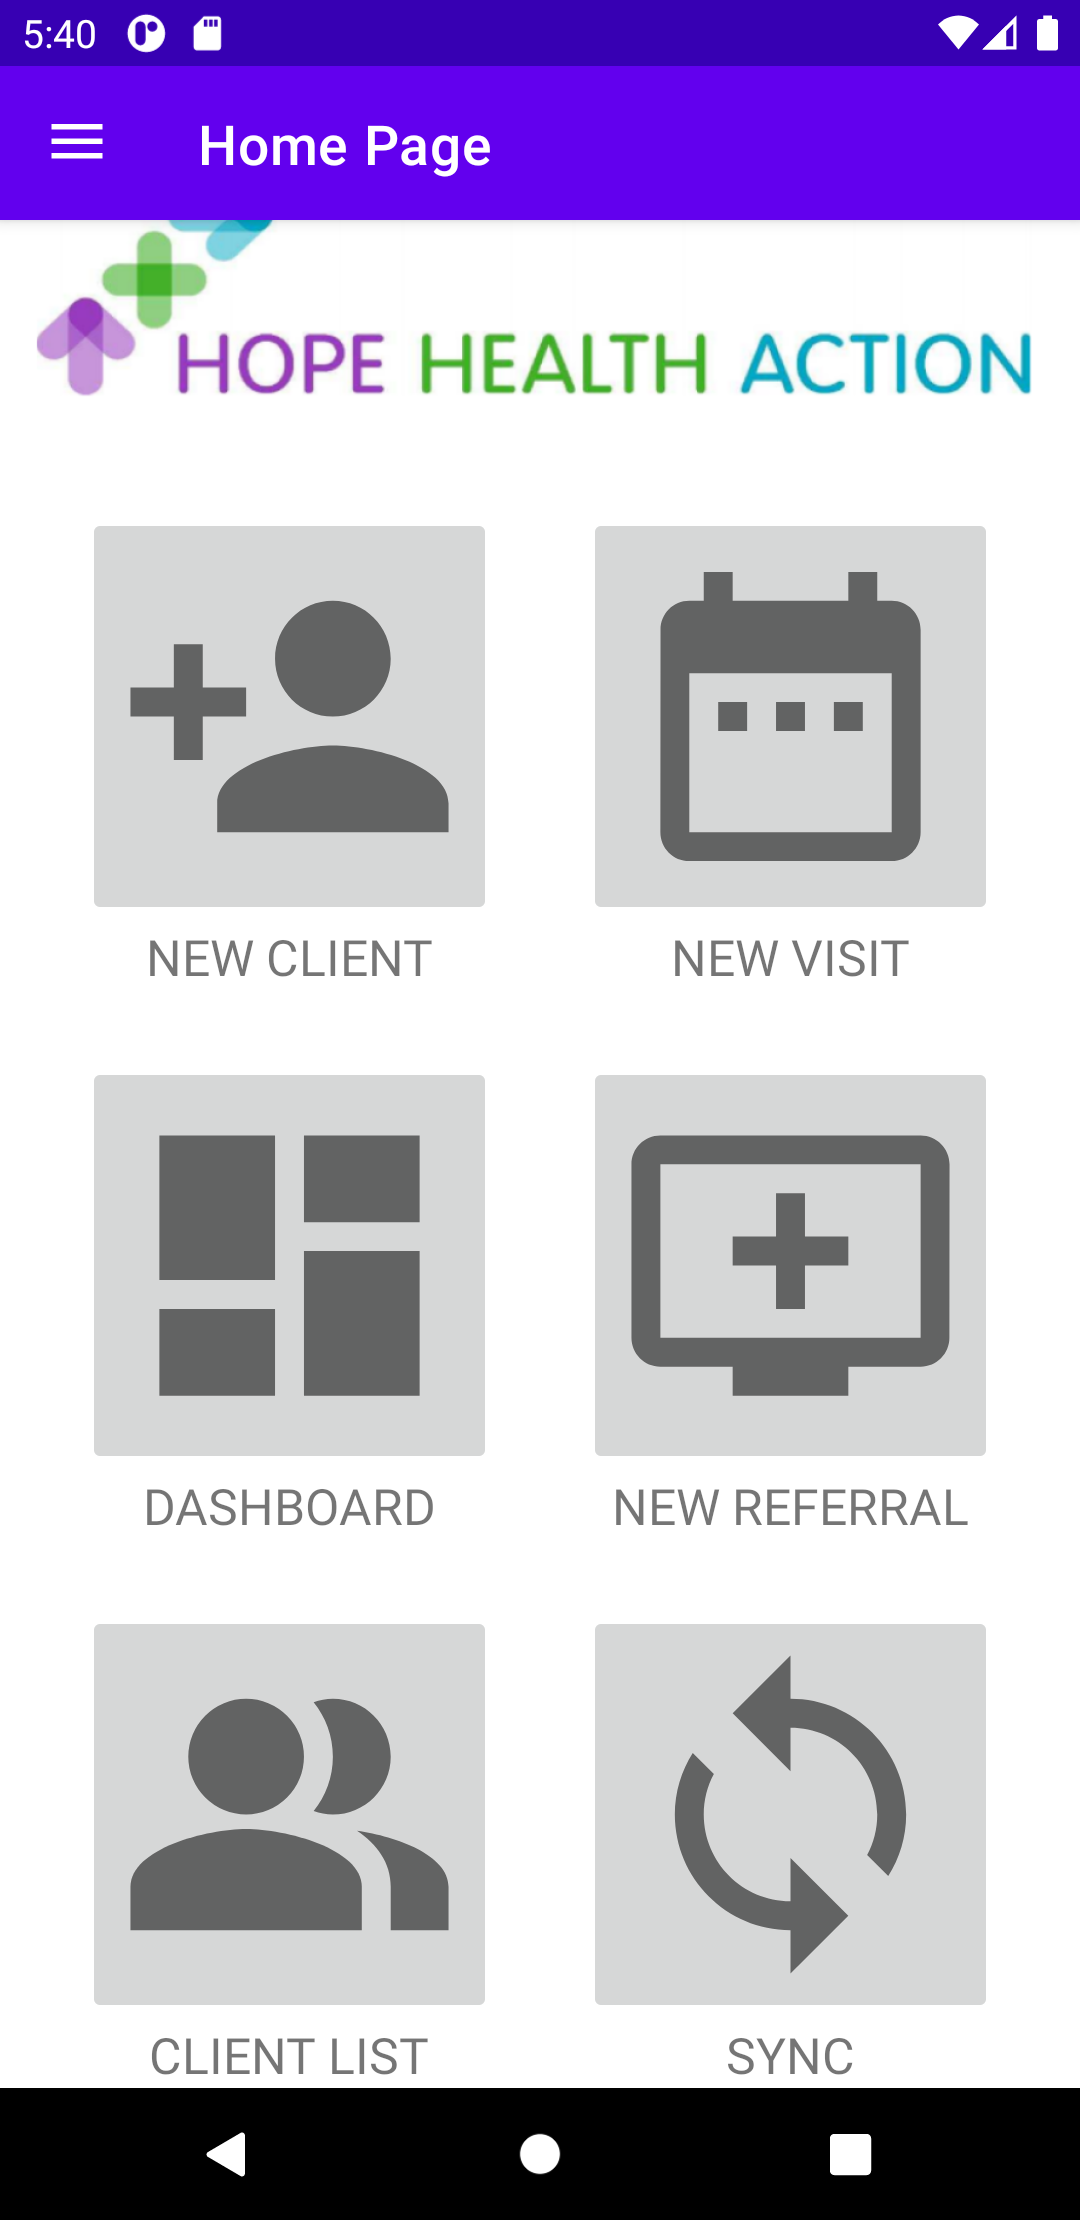
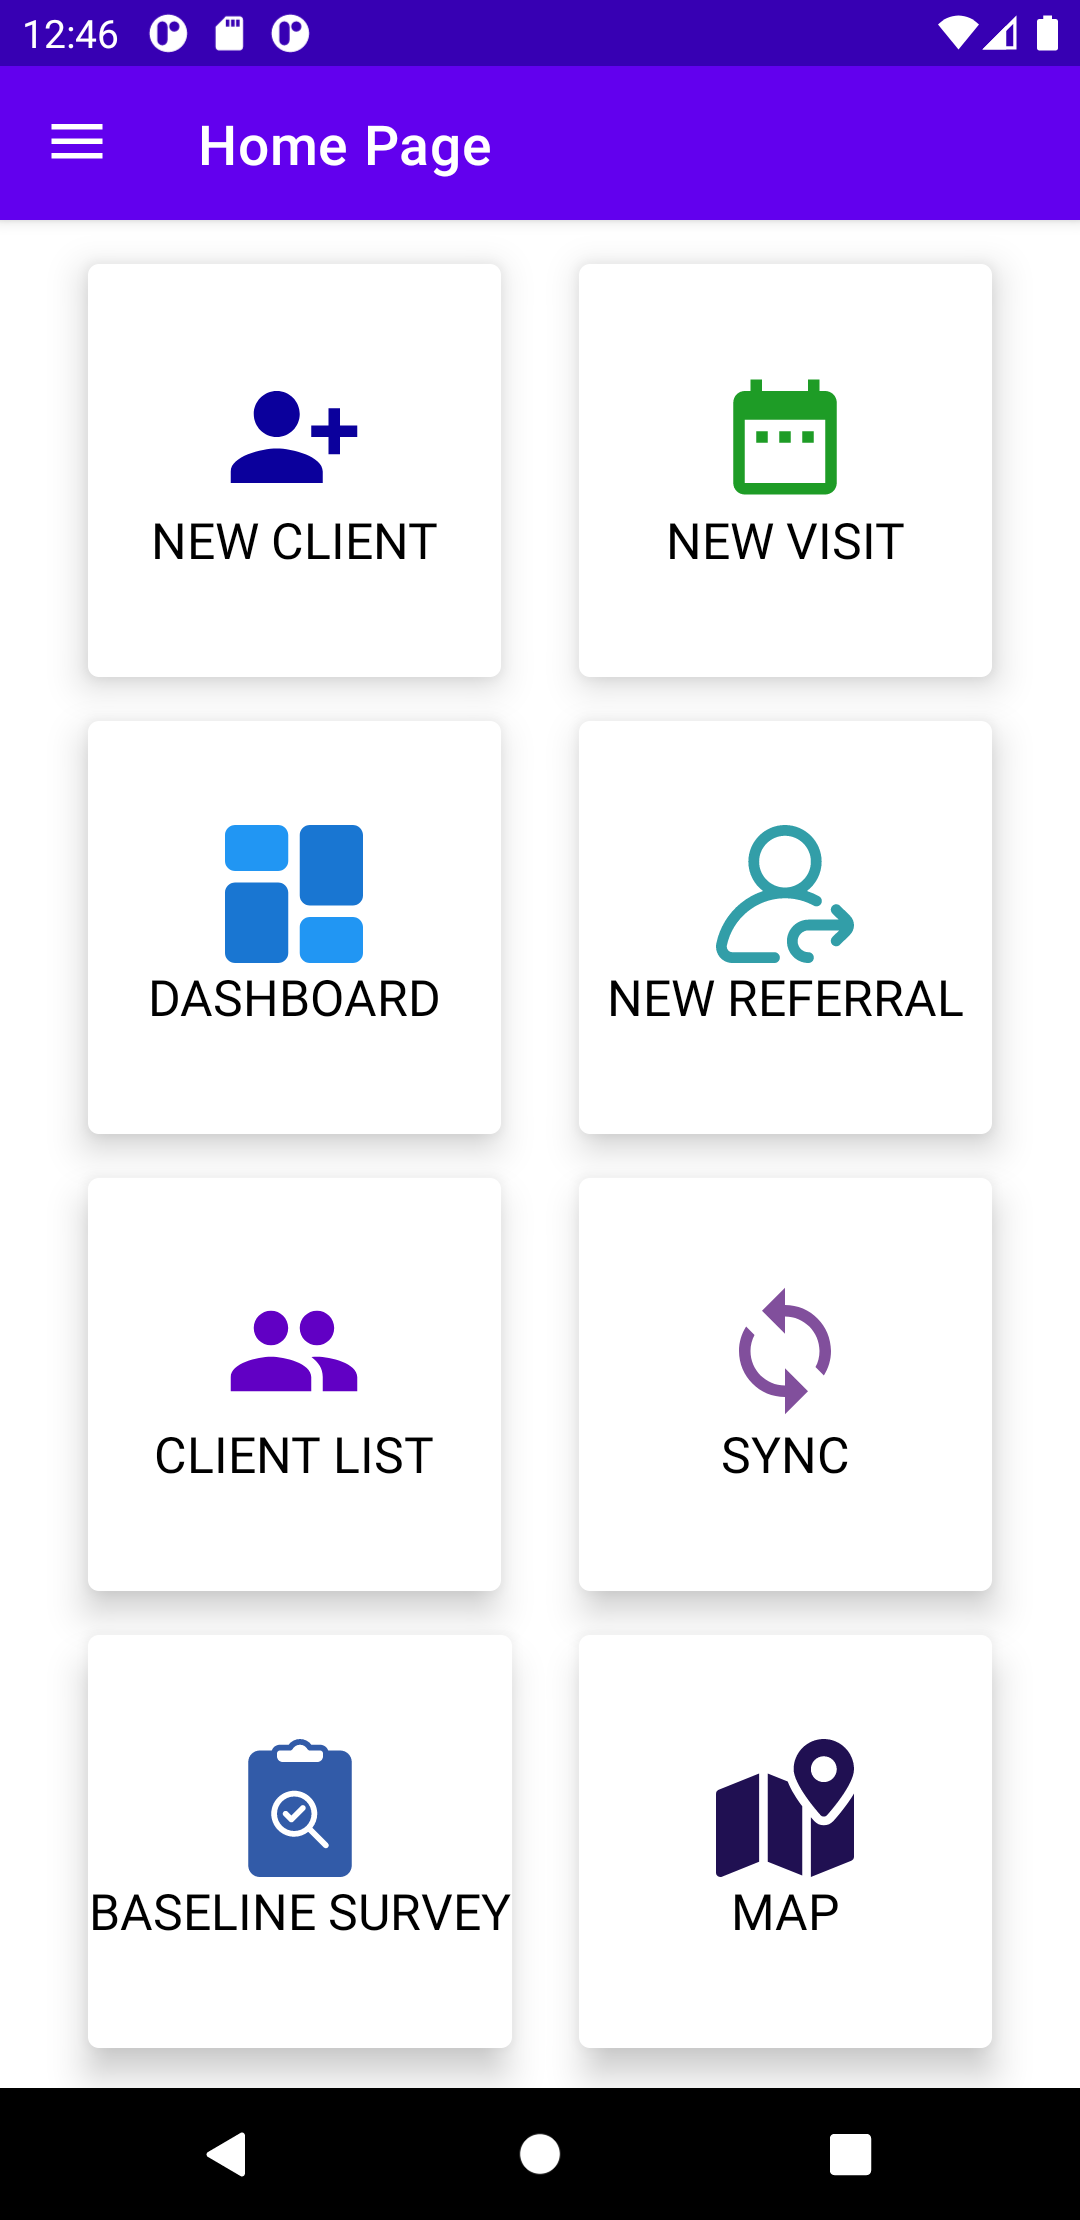
add sean part, overview, next steps, more photos and descriptions to readme

diff --git a/README.md b/README.md
@@ -15,8 +15,11 @@ In iteration 1, we've designed the UI for the majority of required pages and cre
 ### Iteration 2
 In iteration 2, we focused on adding the ability for users to create referrals for clients, which can then be viewed and edited. Speaking of editing, this was another area we focused on this iteration. Now clients and visits can also be edited through the app as well. We also placed a search feature in a lot of the pages, which will be handy once the number of clients and visits grows. Another focus this iteration was on using a local db with syncing to allow users to use the app offline. Finally, we improved a lot of the app's UI this iteration, based on feedback from the customer, and also based on having a better understanding of the flow of the app and how to use Android at this point. One of these changes was login caching, which we feel definitely makes the app more convenient to use (and to test!).
 
-## Upcoming
-For next iteration we plan to finalize the risk algorithm, finish work on local database syncing, add the ability to easily view historical changes, and improve client goal tracking. We also will finalize the UI across the board to get everything looking and feeling as good as possible. And of course we'll make changes based on the customer's feedback of our iteration 2 demo!
+### Iteration 3
+In iteration 3, we focused on goals, offline functionality, maps, statistics, admin privileges, the risk algorithm, baseline surveys, and general quality of life improvements for the user. Goals are now their own objects rather than simply being an attribute of client, so they can be created and updated in several places, and their full history can be viewed. Nearly the entire app is now functional offline. Every table except baseline surveys (which is less likely to be accessed offline) can be written to, updated, and viewed from offline using a local database, which will sync to the global database when internet becomes available again. There is now also a map showing all client locations, and a statistics page that can export CSV files to Google Drive (if the user is an admin). The risk algorithm is now fully operational, with complex-ish calculations under the hood, but displaying the results in easily digestible English categories. Users can also now fill out baseline surveys for clients. Finally, the UI across the board has been cleaned up, instructions are added for the first time a user uses the app, and some code refactoring has been done to clean up the code.
+
+## To do in the future
+Baseline surveys definitely should get offline functionality. Baseline surveys should also be represented in the statistics. There are also a few counterintuitive quirks in the UI that should be changed, such as when creating a goal in visit for a category that doesn't yet have a goal, where it will ask the status of the nonexistent goal. It's a process, so I'm sure there will also be other things to change based on the customer's feedback. Overall though, we're very happy with what we've accomplished on this app this term. We're proud of the "final" product, and we've all learned a lot.
 
 
 # How to setup Local Development
@@ -460,6 +463,24 @@ The login page allows users to log in to reach their personalized home screen
 **User Story** (#1)
 As an admin, I want to be able to edit all user (CBR worker, clinician) data, so I can perform management duties if input was incorrect or priorities changed
 
+**Iteration 3:**
+
+**User story:**
+   As a admin/user, I want to be able to create and modify goals so that clients can track their progress better.
+
+* I created the goal model on the back end, which was used in the app in multiple places.
+
+**User story:**
+   As a admin/user, I want to see clients' risk scores and sort by these scores so I can prioritize more at-risk clients.
+
+* I designed the new risk algorithm, which uses a log scale with some priority modifiers to capture Izzy's requested prioritization of clients. I then modified the risk labels that the user will see to just be English categories, since the numbers became very high, and would likely have been more confusing for users to explicity see, so the numbers are mostly just used behind the scenes now.
+
+**User story:**
+   As a admin/user, I want to be able to use the app offline, so that I can go to areas without internet and not worry about losing functionality.
+
+* I was responsible for giving offline functionality to everything related to goals. This includes viewing goals on the client details, goal history and create visit pages. It also includes creating goals on the create client and create visit pages. Finally, it includes editing goals on the edit client details and create visit pages. Jonathan (who had previously implemented offline functionality for visits) was a very big help with this.
+
+
 ## William Tran's Contribution
 
 ### Iteration 1 Creation of New Clients
@@ -604,13 +625,17 @@ Once the app is running, you will be on the login screen. Input "user1" as the u
 
 <img src="/readme-images/login.png"  width="432" height="888">
 
-After logging in, you will see the homepage. Here, you can click different icons to quickly go to their pages. The sync button will sync your local database with the global one, so that you can use the app safely without internet.
+After logging in, you will see the homepage. Here, you can click different icons to quickly go to their pages.
 
 <img src="/readme-images/homepage.png"  width="432" height="888">
 
 If you click on the dashboard, you  can view alerts, see high priority clients and visit information, and use the navigation bar to access other pages.
 
 <img src="/readme-images/dashboard.png"  width="432" height="888">
+
+There are now tutorial messages that get displayed the first time a user uses the app.
+
+<img src="/readme-images/tutorial.png"  width="432" height="888">
 
 To access the navigation bar, click on the three horizontal bars in the top left corner.
 
@@ -702,8 +727,24 @@ You can edit a referral by clicking the edit button. One major thing you might e
 
 Once a referral is marked RESOLVED, it will no longer show up in the outstanding toggle
 
-<img src="/readme-images/no_outstanding_referrals.png"  width="432" height="888">
-
-Note: you may need to use the back button built into Android devices and emulators to exit from certain pages. This is something that will be addressed in the next iteration.
-
 <img src="/readme-images/back.png"  width="78" height="517">
+
+You can view the location of all clients through the map, which is accessible from the homepage
+
+<img src="/readme-images/map.png"  width="432" height="888">
+
+You can also create a baseline survey for a client by selecting "BASELINE SURVEY" on the home page and selecting a client
+
+<img src="/readme-images/baseline_survey.png"  width="432" height="888">
+
+Admins can view statistics on the statistics page, accessible through the navigation bar.
+
+<img src="/readme-images/statistics.png"  width="432" height="888">
+
+They then can export the statistics to Google Drive
+
+<img src="/readme-images/export.png"  width="432" height="888">
+
+There, it can be viewed as a CSV file
+
+<img src="/readme-images/statistics_csv.png"  width="432" height="888">
